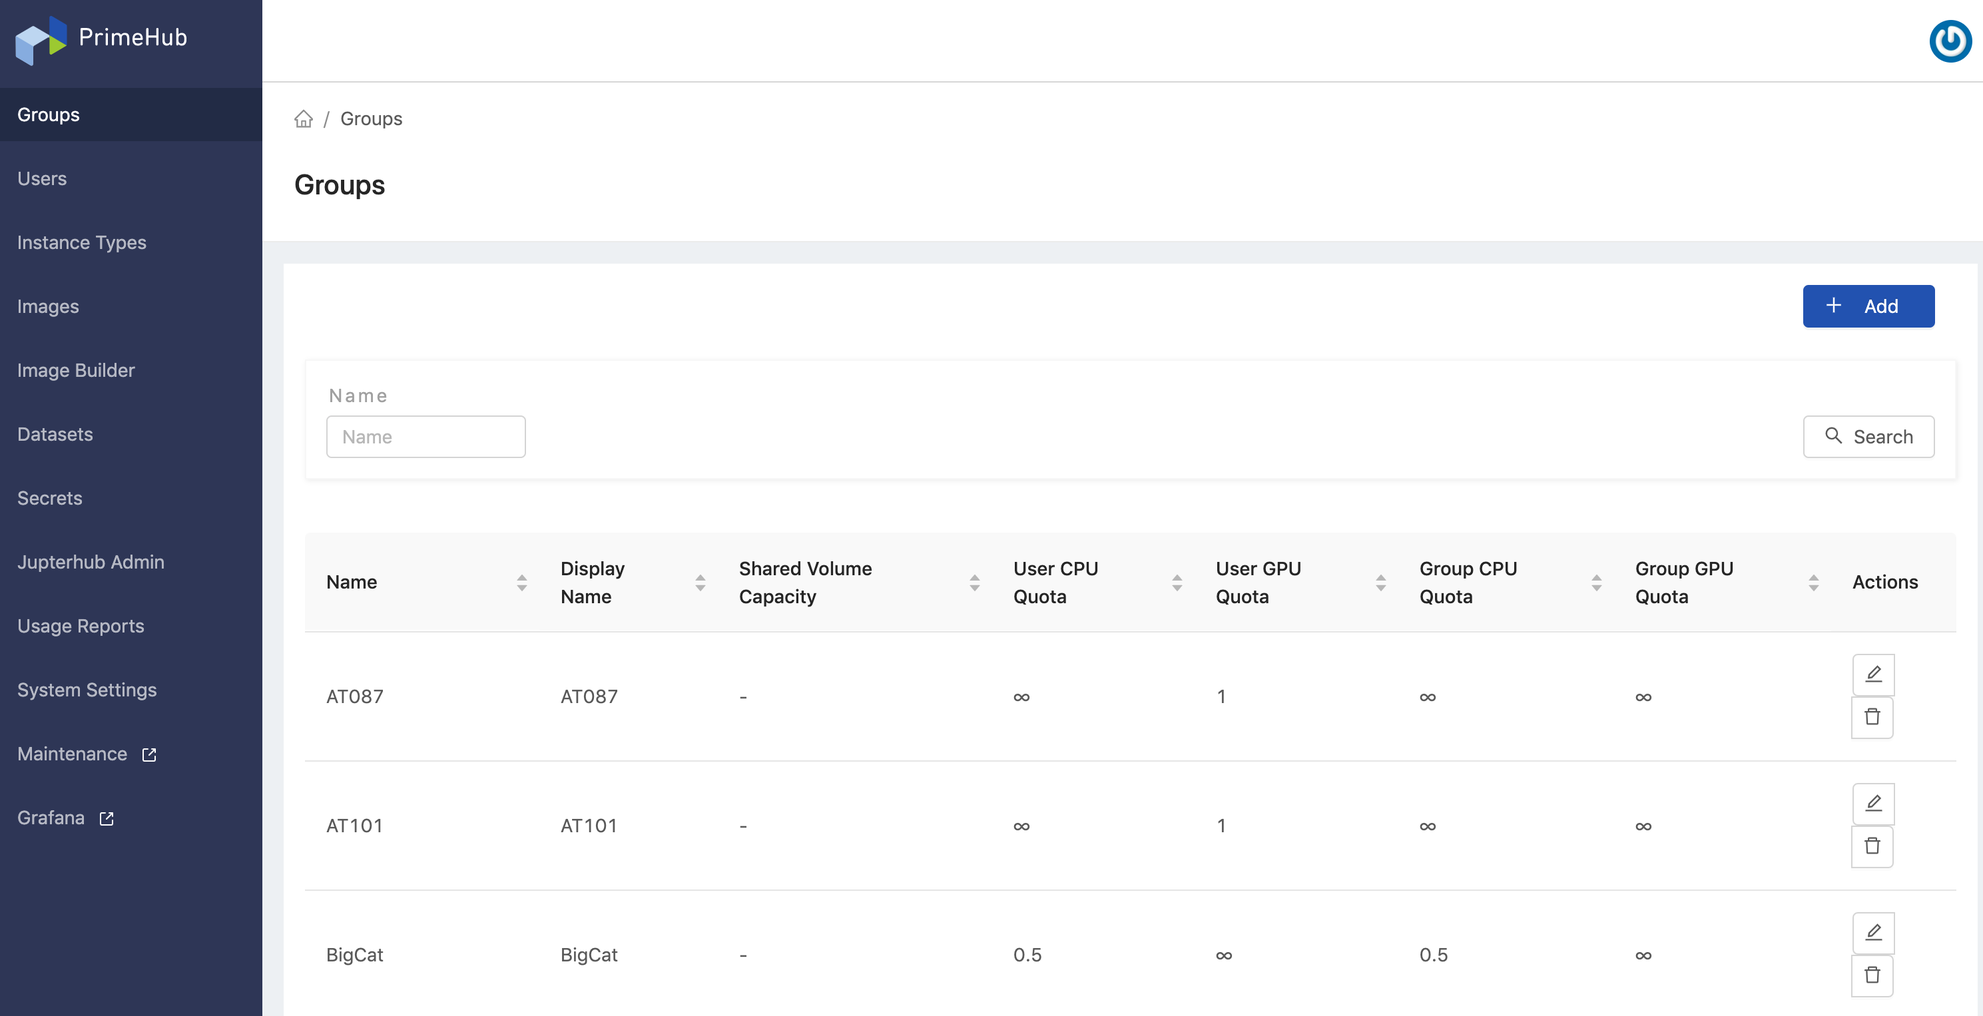
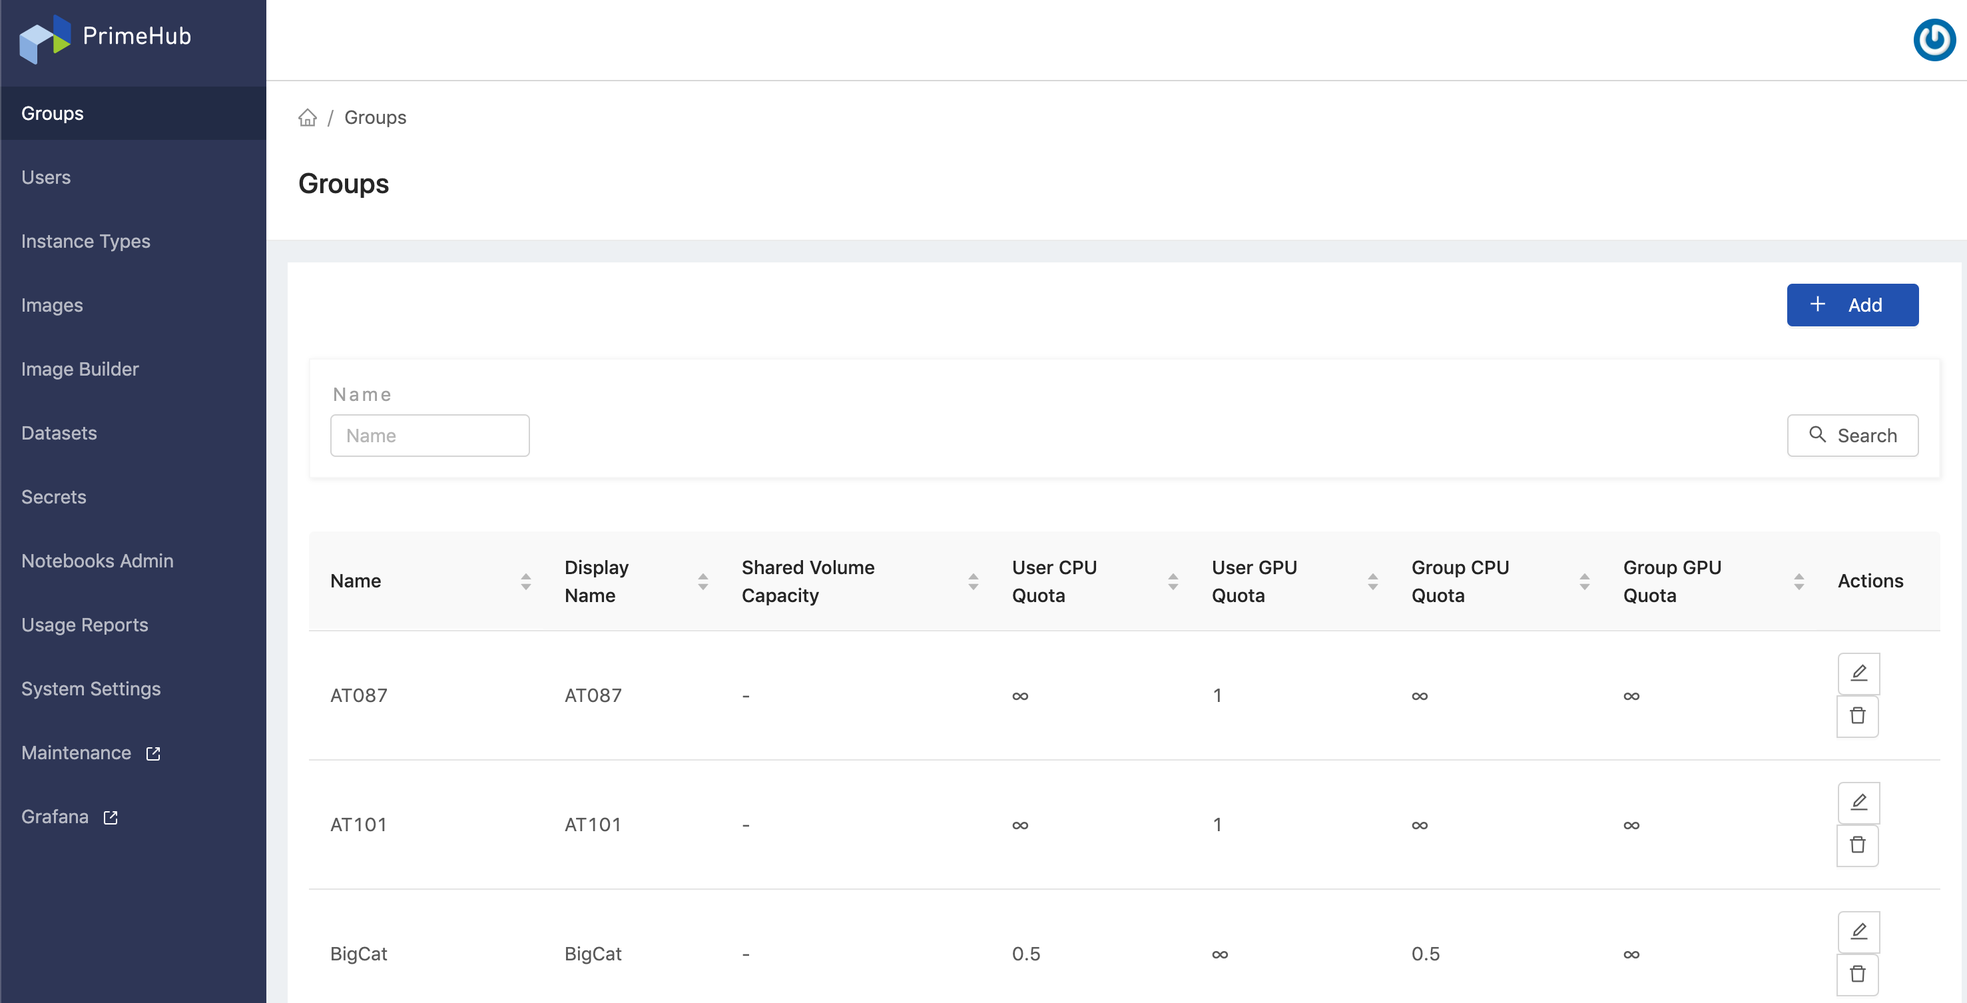
Revise docs according to terms changed.

diff --git a/docs/release-note.md b/docs/release-note.md
@@ -1,44 +1,44 @@
 ---
 id: release-note
-title: 2.8 Release Note
+title: 3.0 Release Note
 ---
 
 ## 🌟 What's New
 
-+ [PrimeHub Store](design/primehub-store) 
-    / [File System](design/phfs) Design is the central storage of PrimeHub and its backend is object storage.
-+ [PrimeHub Deploy](deploy-index)
-    is a standalone Model Deployment-only version of PrimeHub Enterprise. In addition to the PrimeHub Enterprise version of the Model Deployment feature, PrimeHub Deploy also features an Admin Dashboard that allows administrators to manage resources and access-control.
-  
+We are glad to announce our **PrimeHub v3.0** release. **PrimeHub v3.0** has a whole new ML user experience base on the **Group-Context** concept that ML users specify a current working project-group prior to any rest of operations. All of operations are performed within the working project-group. It is much different with the past PrimeHub v2 and it allows users to focus on the current project-group intuitively.
+![](assets/v3-landing-user.png)
 
++ [ML User Experience of Group-Context](getting-started-user)
++ [Usage Reports Feature](guide_manual/admin-report) allows admin to have monthly reports of allocated resources usage.
++ [SSH Server Feature](guide_manual/ssh-config) allows users to access their launched JupyterHub remotely via SSH.
+  
 ## 🦄 Breaking Changes
 
-+ Upgrade helm version from 2.16.1 to 3.2.4
-+ Upgrade helm-diff version to 3.1.2
-+ Upgrade helmfile version to 0.125.0
++ Two portals, [User Portal](quickstart/login-portal-user) and [Admin Portal](quickstart/login-portal-admin), different entrances to different role-based features.
++ **Notebooks Admin** feature, **Maintenance** feature and **Grafana** link are merged into Admin Portal.
+  
+![](assets/v3-admin-portal.png)
+
++ Deprecated the **Launch Group Only** of Dataset.
 
 ## 🚀 Improvements
 
-- Added effectiveGroups field in the User type of graphql.
-- Autoscaling is enabled by default in PrimeHub installation on EKS.
-- Refined the script of cluster shutdown.
-- Refined the script of PrimeHub installation for single node.
-- Ignore non-existing pvc during spawning.
++ Support default value of storageClass
++ Metacontroller and Keycloak are included in PrimeHub Chart
++ Support Rook rgw
++ **JupyterHub** feature is renamed to `Notebooks`
++ **JupyterHub Admin** feature is renamed to `Notebooks Admin`
++ **System** feature is renamed to `System Settings`
 
 ## 🧰 Bug fixes
 
-- Fixed admission pvc-check failed to add an annotation to user submitting jobs.
-- Fixed choosing the classic Jupyter notebook view after launching the latest jupyter/base-notebook.
-
----
-
-## 📣 PrimeHub CE v2.8 (Community Edition)
-
-- [Release](https://github.com/InfuseAI/primehub/releases/tag/v2.8.0)
-
++ Fixed env dataset contain invalid characters.
++ Fixed log component isn't synchronized with latest logs.
+  
 ---
 
 ## 🎪 In the Community
 
-+ [PrimeHub CE installation scenario of Katacoda](https://www.katacoda.com/infuseai)
-+ [使用 TensorFlow Hub 快速訓練能辨別石虎（Leopard cat）的影像分類模型](https://medium.com/infuseai/%E4%BD%BF%E7%94%A8-tensorflow-hub-%E5%BF%AB%E9%80%9F%E8%A8%93%E7%B7%B4%E8%83%BD%E8%BE%A8%E5%88%A5%E7%9F%B3%E8%99%8E-leopard-cat-%E7%9A%84%E5%BD%B1%E5%83%8F%E5%88%86%E9%A1%9E%E6%A8%A1%E5%9E%8B-f04d2ac67be6?source=friends_link&sk=922014bec736715a90863af434b6b897)
++ [PrimeHub CE v3.0 (Community Edition) Release](https://github.com/InfuseAI/primehub/releases)
+
++ [PrimeHub CE v3.0 installation scenario on Katacoda](https://www.katacoda.com/infuseai)

diff --git a/docs/zh-tw/guide_manual/ssh-config-cht.md b/docs/zh-tw/guide_manual/ssh-config-cht.md
@@ -3,7 +3,7 @@ id: ssh-config-cht
 title: SSH Server 功能
 ---
 
-**PrimeHub v3.0+** 提供新功能 SSH Server，允許使用者透過 SSH 方式來存取遠端已啟動的 JupyterHub。實際的應用情境是使用者可以使用熟悉且較強大的開發工具(如：**VSCode + Remote-SSH**)來進行遠端開發；提供使用者更多開發工具的選擇。
+**PrimeHub v3.0+** 提供新功能 SSH Server，允許使用者透過 SSH 方式來存取遠端已啟動的 Notebooks。實際的應用情境是使用者可以使用熟悉且較強大的開發工具(如：**VSCode + Remote-SSH**)來進行遠端開發；提供使用者更多開發工具的選擇。
 
 ## 啟用 SSH Server
 
@@ -11,31 +11,31 @@ title: SSH Server 功能
 
 > 在我們啟用此功能前，請先確保您有可使用的**公私金鑰**，若您尚未有金鑰請參考 [SSH 金鑰產生](ssh-keygen-cht)在本地端產生一組可用金鑰。
 
-1. 從側選單進入`JupyterHub`，展開`Show advanced settings`並勾選`Enable SSH Server`。
+1. 從側選單進入`Notebooks`，展開`Show advanced settings`並勾選`Enable SSH Server`。
 
     ![](assets/ssh-enable.png)
 
 2. 將滑鼠移至設定代碼上，點擊複製圖示將代碼複製於剪貼簿，稍候需要用到此代碼。
 
-3. 點擊`Start Notebook`啟動 JupyterHub。
+3. 點擊`Start Notebook`啟動 Notebook。
 
 4. 回到本機端，編輯 `~/.ssh/config` 將先前複製代碼貼上，並確認或修改代碼中 `jupyter-<username>` 及 `~/.ssh/id_rsa`(私鑰) 是否指到正確的檔案及路徑。
 
     >如果您想指定其它金鑰，請修改代碼中出現的 `~/.ssh/id_rsa`；如果您的金鑰需要 passphrase，您可以考慮將其加入 [ssh-agent](https://www.ssh.com/ssh/agent)。
 
-## 複製公鑰至 JupyterHub
+## 複製公鑰至 Notebook
 
-JupyterHub 啟動後，
+Notebook 啟動後，
 
-> User Portal 上 JupyterHub 選單頁上會顯示一樣的指示及設定供參考。
+> User Portal 上 Notebooks 選單頁上會顯示一樣的指示及設定供參考。
 
 ![](assets/ssh-server-instruction.png)
 
-5. 以拖曵方式將公鑰 (e.g. `id_rsa.pub`) 從本地端複製到啟動 JupyterHub 的 `File Browser` 。
+5. 以拖曵方式將公鑰 (e.g. `id_rsa.pub`) 從本地端複製到啟動 Notebook 的 `File Browser` 。
 
     ![](assets/ssh-dragdrop-pub.png)
 
-6. 於 JupyterHub 開啟 `Terminal`， 執行
+6. 於 Notebook 開啟 `Terminal`， 執行
    
     ```bash
     mkdir -p ~/.ssh
@@ -48,13 +48,13 @@ JupyterHub 啟動後，
     ssh jupyter
     ```
 
-    SSH 登入 JupyterHub 成功後，應見到提示符號：
+    SSH 登入 Notebook 成功後，應見到提示符號：
 
     ```
     jovyan@jupyter-<your_username>:~$
     ```
 
->一旦初次設定成功後，日後只需要**步驟1**，即可透過 SSH 連線 JupyterHub。
+>一旦初次設定成功後，日後只需要**步驟1**，即可透過 SSH 連線 Notebook。
 
 ## 實際應用 - VSCode
 

diff --git a/docs/zh-tw/user-advanced-setting.md b/docs/zh-tw/user-advanced-setting.md
@@ -3,18 +3,18 @@ id: user-advanced-setting
 title: Spawner 進階設定 
 ---
 
-在 Jupyter Spawner 頁面下方，有個`advanced settings`其中包含些進階選項，我們可以考慮在某些特殊狀況下起始 jupyter 時，啟用這些選項。
+在 Notebook Spawner 頁面下方，有個`advanced settings`其中包含些進階選項，我們可以考慮在某些特殊狀況下起始 Notebook 時，啟用這些選項。
 
 
 ## Safe Mode
 
-安全模式，當某些情況下我們無法成功起始 jupyter 時，我們可以考慮啟用安全模式進行「偵錯」。如果此時安全模式下可以正常起始 jupyter ，那有可能是因為`/home/jovyan`空間已滿，導致 jupyter 無法寫入資料，進而無法起始。
+安全模式，當某些情況下我們無法成功起始 Notebook 時，我們可以考慮啟用安全模式進行「偵錯」。如果此時安全模式下可以正常起始 Notebook ，那有可能是因為`/home/jovyan`空間已滿，導致 Jupyter 無法寫入資料，進而無法起始。
 
-一般模式下起始 jupyter 時，使用者的 home 目錄是掛載在`/home/jovyan`； jupyter 同時也將其檔案放在此目錄下。所以「空間不足」時（使用者生成的檔案過多、`pip install`套件佔過多空間），jupyter 就無法將起始所需的資料成功寫入在該目錄下，導致起始失敗。
+一般模式下起始 Notebook 時，使用者的 home 目錄是掛載在`/home/jovyan`； jupyter 同時也將其檔案放在此目錄下。所以「空間不足」時（使用者生成的檔案過多、`pip install`套件佔過多空間），jupyter 就無法將起始所需的資料成功寫入在該目錄下，導致起始失敗。
 
-安全模式下起始 jupyter 時，使用者的 home 目錄則是掛載在`/home/jovyan/user`; `/home/jovyan`則是歸在`/`下，其檔案則使用不同的空間。
+安全模式下起始 Notebook 時，使用者的 home 目錄則是掛載在`/home/jovyan/user`; `/home/jovyan`則是歸在`/`下，其檔案則使用不同的空間。
 
-因此，此時我們可以針對使用者 home 目錄(`~/user`)下的檔案及套件進行清理騰出空間，關閉安全模式下的 jupyter ，以一般模式重啟 jupyter。
+因此，此時我們可以針對使用者 home 目錄(`~/user`)下的檔案及套件進行清理騰出空間，關閉安全模式下的 Notebook ，以一般模式重啟 Notebook。
 
 ## (Experimental) JupyterLab 1.0 with kernel gateway
 
@@ -24,4 +24,4 @@ title: Spawner 進階設定
 
 ## SSH Server
 
-開啟後，使用者可以透過 SSH 來遠端連線啟動的 JupyterHub。請見 [SSH Server Feature](guide_manual/ssh-config-cht)。
+開啟後，使用者可以透過 SSH 來遠端連線啟動的 Jupyter Notebook。請見 [SSH Server Feature](guide_manual/ssh-config-cht)。

diff --git a/docs/user-advanced-setting.md b/docs/user-advanced-setting.md
@@ -3,17 +3,17 @@ id: user-advanced-setting
 title: Advanced Settings
 ---
 
-At bottom of Jupyter Spawner, there are `advanced settings` which we can consider to enable for special purposes.
+At bottom of Notebook Spawner, there are `advanced settings` which we can consider to enable for special purposes.
 
 ## Safe Mode
 
 When a user's jupyter pod cannot be launched successfully, we can consider to enable this setting and try it again for ***troubleshooting***. If the jupyter pod can be launched **with safe mode enabled** this time, which implies that user's home folder is full so that jupyter is not able to write its own files successfully.
 
-Launching jupyter, by default, without safe more, user's home folder is mounted under `/home/jovyan` which is shared with jupyter files. When `no left space` for jupyter writing its own files, jupyter is failed to launch.
+Launching Notebook, by default, without safe more, user's home folder is mounted under `/home/jovyan` which is shared with jupyter files. When `no left space` for jupyter writing its own files, jupyter is failed to launch.
 
 Under safe mode, it provides another persistent storage method to launch your notebook; the persistent volume is mounted under `/home/jovyan/user` rather than `/home/jovyan`, meanwhile, jupyter files are located under `/`, in other words, user's home folder and jupyter don't share the same space anymore.
 
-Hence, once the jupyter is launched under safe mode successfully, we can try to clean up files under `~/user` or to uninstall unnecessary pip packages to make more space. Then we can shutdown this jupyter and re-launch jupyter again **without safe mode enabled**.
+Hence, once the Notebook is launched under safe mode successfully, we can try to clean up files under `~/user` or to uninstall unnecessary pip packages to make more space. Then we can shutdown this Notebook and re-launch Notebook again **without safe mode enabled**.
 
 ## (Experimental) JupyterLab 1.0 with kernel gateway
 
@@ -23,4 +23,4 @@ If **Jupyter Kernel Gateway** is required, enable this setting. Go to [[Jupyter 
 
 ## SSH Server
 
-Enable it to allow the access to the JupyterHub via SSH remotely. Please see [SSH Server Feature](guide_manual/ssh-config) for the detail.
+Enable it to allow the access to the Jupyter Notebook via SSH remotely. Please see [SSH Server Feature](guide_manual/ssh-config) for the detail.

diff --git a/docs/quickstart/launch-project.md b/docs/quickstart/launch-project.md
@@ -1,7 +1,7 @@
 ---
 id: launch-project
 title: Launch JupyterHub
-sidebar_label: Launch JupyterHub 
+sidebar_label: Launch Jupyter Notebook
 ---
 
 This quickstart shows how to launch/stop a project.
@@ -10,7 +10,7 @@ This quickstart shows how to launch/stop a project.
 
 ![](assets/spawner_v3.png)
 
-1. Log in `User Portal` with a user account, select `JupyterHub` and click `Start My Server` to enter the spawner page.
+1. Log in `User Portal` with a user account, select `Notebooks` and click `Start My Server` to enter the spawner page.
 
 2. Confirm if the current group is what you desire; switch the group by the `Group:` dropdown at the top of the right side.
 
@@ -20,9 +20,9 @@ This quickstart shows how to launch/stop a project.
 
    Accordingly, images are selectable only if `Types` of which match the selected `Instance Type` that guarantees hub is spawned with the proper image.
 
-5. Enabled [Advanced Settings](../user-advanced-setting) if required. Click `Start Notebook`. Your Server environment would be instantiated. Once the JupyterHub is spawned, it will pop up a new tab.
+5. Enabled [Advanced Settings](../user-advanced-setting) if required. Click `Start Notebook`. Your Server environment would be instantiated. Once the Notebook is spawned, it will pop up a new tab.
    
->At very first time, browser will block the pop-up from PrimeHub by default, please allow the pop-up from PrimeHub. Click `My Server` to open JupyterHub in a new tab once the pop-up is allowed.
+>At very first time, browser will block the pop-up from PrimeHub by default, please allow the pop-up from PrimeHub. Click `My Server` to open Notebook in a new tab once the pop-up is allowed.
 
 ![](assets/v3-jupyter-popup-block.png)
 
@@ -33,6 +33,6 @@ Click `Stop My Server`. It takes a short while to stop it.
 
 ## Notice
 
->If switching the current working group after the JupyterHub is launched, it indicates the JupyterHub is retained in the other group.
+>If switching the current working group after the Notebook is launched, it indicates the Notebook is retained in the other group.
 
 ![](assets/v3-jupyter-other-group.png)

diff --git a/docs/getting-started-user.md b/docs/getting-started-user.md
@@ -13,22 +13,22 @@ From **PrimeHub v3.0**, there are huge changes on UI for introducing **Group-Con
 
 + Because group-context design, `Jobs` feature, `Schedule` feature and `Models` feature, these features present/operate items *only within the current working group*. Furthermore, user-operations, such as submitting jobs, creating job schedule and deploying models, are also performed against the current working group.
 
-+ Because group-context design, JupyterHub will be launched within the current working group without choosing a group from the spawner page.
++ Because group-context design, Notebook will be launched within the current working group without choosing a group from the spawner page.
 
 ## Guides
 
-As Data/ML scientists, you will learn how to conduct projects and how to deploy models on PrimeHub with JupyterHub, Job Submission and Model Deployment features.
+As Data/ML scientists, you will learn how to conduct projects and how to deploy models on PrimeHub with Notebook, Job Submission and Model Deployment features.
 
 Guides are included:
 
 + [Access User Portal](quickstart/login-portal-user.md)
 
-+ [Launch/Shutdown projects of JupyterHub on PrimeHub](quickstart/launch-project)
++ [Launch/Shutdown Notebooks of projects on PrimeHub](quickstart/launch-project)
 
-+ [Advanced settings of JupyterHub Spawner](user-advanced-setting)
++ [Advanced settings of Notebook Spawner](user-advanced-setting)
   
 + [Submit and schedule Jobs](job-submission-feature)
 
 + [Deploy Models and serve models](model-deployment-feature)
 
-+ [Access JupyterHub remotely via SSH](guide_manual/ssh-config)
++ [Access Jupyter Notebook remotely via SSH](guide_manual/ssh-config)

diff --git a/docs/zh-tw/job-submission-tutorial-simple.md b/docs/zh-tw/job-submission-tutorial-simple.md
@@ -56,9 +56,9 @@ for num in range(start, end + 1):
     print('{}: {}'.format(num, camel.hump(txt)))
 ```
 
-1. 登入`PrimeHub`後，點擊`JupyterHub`。
+1. 登入`PrimeHub`後，點擊`Notebooks`。
 
-2. 選擇`group`、`instance type`及`image`啟始 jupyterhub。
+2. 選擇`instance type`及`image`啟始 Notebook。
 
 3. 啟動後，從左方檔案工作區雙擊我們的 group volume 資料夾進入。
 
@@ -70,7 +70,7 @@ for num in range(start, end + 1):
 
 6. 輸入要執行的程式碼並儲存。
 
-到此我們已經在 group volume 下，新增一個 python 程式檔；此時就算關閉 jupyterhub 對接下來的`Job Submission`也不會有影響。
+到此我們已經在 group volume 下，新增一個 python 程式檔；此時就算關閉 Notebook 對接下來的`Job Submission`也不會有影響。
 
 ### Submit Job
 
@@ -78,7 +78,7 @@ for num in range(start, end + 1):
 
 1. 回到`User Portal`開啟 `Jobs` 並點擊右上方的`Create Job`進入 Job 新增頁。
 
-2. 從左方選擇 `instance type`及`image`；確保跟我們先前用來起始`JupyterHub`的環境一致。
+2. 從左方選擇 `instance type`及`image`；確保跟我們先前用來起始`Notebook`的環境一致。
 
 3. 在右方將 Job 命名為`counting`。
    

diff --git a/docs/zh-tw/job-submission-tutorial-p2.md b/docs/zh-tw/job-submission-tutorial-p2.md
@@ -7,10 +7,10 @@ title: (Part2) MNIST classifier 訓練範例程式
   <span class="tooltiptext">Available in Enterprise tier only</span>
 </div>
 
-1. 登入後，進入 `JupyterHub`。
+1. 登入後，進入 `Notebooks`。
 2. 選擇至少有 1 virtual CPU 及 2GB RAM 的 `instance type`。
 3. 選擇有`Tensorflow 1.14`環境的`image`。
-4. 點擊`start`起始 JupyterHub。
+4. 點擊`start Notebook`起始 Notebook。
 
     ![image](assets/jobsub-tt-p2-2.png)
 
@@ -70,7 +70,7 @@ title: (Part2) MNIST classifier 訓練範例程式
 請確認目前預先決定的專案群組，是否為設想的群組；切換專案群組請用下拉選單 `Group:`。
 
 1. 點擊右上方的`Create Job`按鈕。
-2. 從左方選擇 `instance type` 及 `image`；確保跟我們用來起始`JupyterHub`的環境一致。
+2. 從左方選擇 `instance type` 及 `image`；確保跟我們用來起始`Notebook`的環境一致。
 3. 在右方將 job 命名為`training mnist`。
 4. 因為我們的範例程式存放在 group volume 且 group volume 會被掛載在`/home/jovyan/<group name> -> /project/<group name>`，在`Commnad`欄位輸入下方指令； 請置換 `<group name>` 為實際名稱 ：
 

diff --git a/docs/quickstart/login-portal-admin.md b/docs/quickstart/login-portal-admin.md
@@ -19,7 +19,9 @@ When login as an administrator, initially, you are directed to **User Portal**, 
 
 ## Admin Portal
 
-Basically, the layout is same as Admin Dashboard in PrimeHub v2.x; in addition,  `JupyterHub Admin` feature, `Maintenance` feature and `Grafana` link are merged into Admin Portal.
+Basically, the layout is same as Admin Dashboard in PrimeHub v2.x; in addition,  `Notebooks Admin` feature, `Maintenance` feature and `Grafana` link are merged into Admin Portal.
+
++ `JupyterHub Admin` is renamed to `Notebooks Admin`.
 
 ![](assets/v3-admin-portal.png)
 
@@ -39,7 +41,7 @@ Basically, the layout is same as Admin Dashboard in PrimeHub v2.x; in addition, 
 
 + `Secrets` where Admin can manage secrets. See [Secret Management](../guide_manual/admin-secret).
 
-+ `JupyterHub Admin` where Admin can manage JupytertHubs of users.
++ `Notebooks Admin` where Admin can manage Notebooks of users.
 
 + `Usage Report` where Admin can review monthly reports of usage. See [Usage Report](../guide_manual/admin-report). `Enterprise`
 

diff --git a/docs/guide_manual/ssh-vscode.md b/docs/guide_manual/ssh-vscode.md
@@ -1,10 +1,10 @@
 ---
 id: ssh-vscode
-title: VSCode SSH JupyterHub Remotely
-sidebar_label: VSCode Remote-SSH JupyterHub
+title: VSCode SSH Jupyter Notebook Remotely
+sidebar_label: VSCode Remote-SSH Notebook
 ---
 
-> This guide requires prerequisites of JupyterHub with enabled SSH Server feature and key-pair. Please go to [SSH Server feature](ssh-config) if it hasn't been set up yet.
+> This guide requires prerequisites of Notebook with enabled SSH Server feature and key-pair. Please go to [SSH Server feature](ssh-config) if it hasn't been set up yet.
 
 
 ## Steps
@@ -28,6 +28,6 @@ sidebar_label: VSCode Remote-SSH JupyterHub
 5. Open the folder, `/home/jovyan`.
    ![](assets/ssh-remote-jovyan.png)
 
-6. It shows files from `/home/jovyan` of remote JupyterHub.
+6. It shows files from `/home/jovyan` of remote Notebook.
    
    ![](assets/ssh-remote-files.png)

diff --git a/docs/zh-tw/guide_manual/ssh-vscode-cht.md b/docs/zh-tw/guide_manual/ssh-vscode-cht.md
@@ -1,10 +1,10 @@
 ---
 id: ssh-vscode-cht
-title: VSCode 透過 SSH 遠端存取 JupyterHub
-sidebar_label: VSCode 遠端存取 JupyterHub
+title: VSCode 透過 SSH 遠端存取 Jupyter Notebook
+sidebar_label: VSCode 遠端存取 Notebooks
 ---
 
->此指南需要 SSH Server 相關設定已經完成並啟動的 JupyterHub； 尚未設定的話，請先參考 [SSH Server feature](ssh-config-cht)。
+>此指南需要 SSH Server 相關設定已經完成並啟動的 Notebook； 尚未設定的話，請先參考 [SSH Server feature](ssh-config-cht)。
 
 
 ## Steps
@@ -29,6 +29,6 @@ sidebar_label: VSCode 遠端存取 JupyterHub
    
    ![](assets/ssh-remote-jovyan.png)
 
-6. 顯示位於遠端 JupyterHub 下的 `/home/jovyan` 檔案。
+6. 顯示位於遠端 Jupyter Notebook 下的 `/home/jovyan` 檔案。
    
    ![](assets/ssh-remote-files.png)
